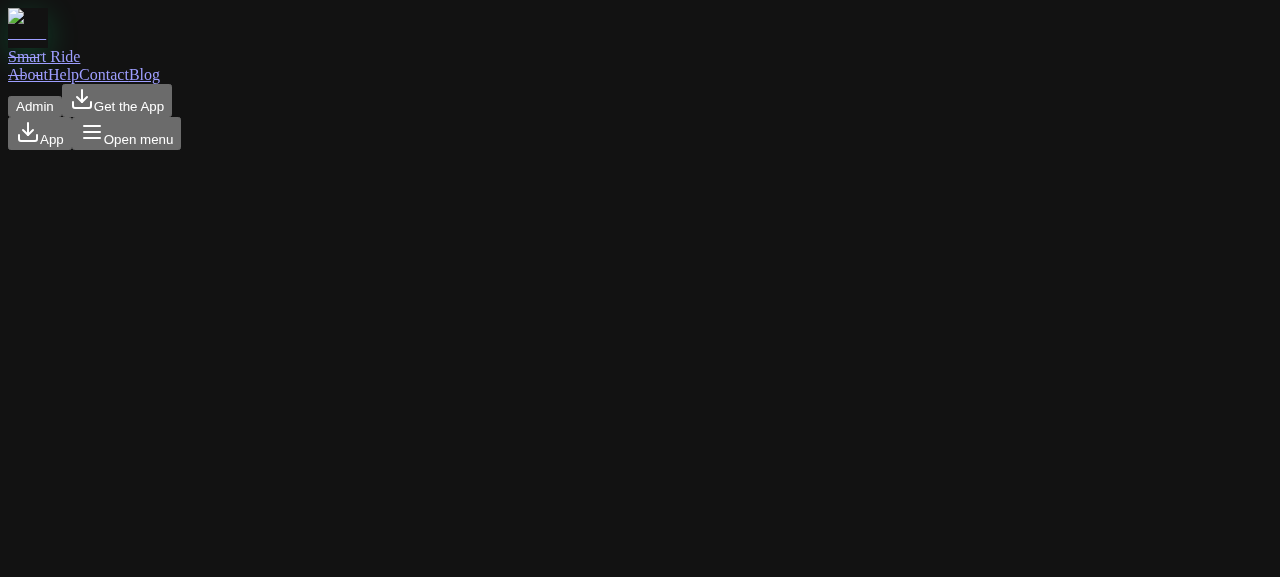
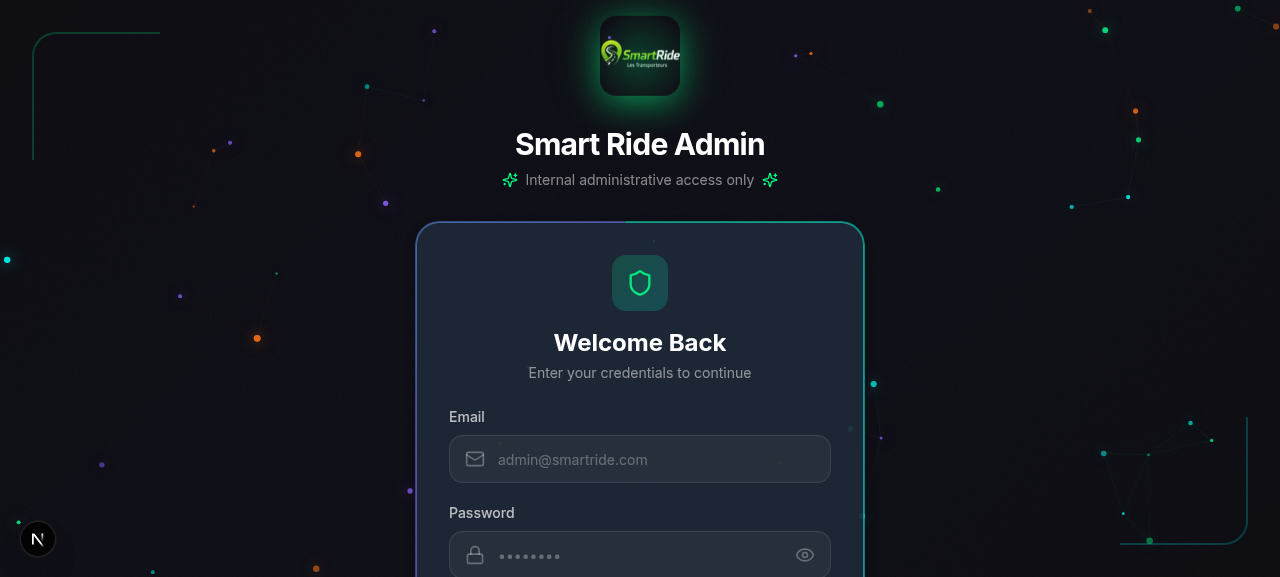
fix(admin): secure admin login at /intellects/login + credential env-var alignment
PROBLEM
- User reported admin dashboard logins did not match the agreed credentials
  (naturalintellectscrop@gmail.com / intellects@nrtcorp) and the admin
  directory still posed a security risk.

ROOT CAUSE
- /api/admin/setup read ADMIN_SETUP_EMAIL / ADMIN_SETUP_PASSWORD env vars,
  but PRODUCTION_SETUP_RUNBOOK.md and ALL prisma seed scripts use
  SEED_ADMIN_EMAIL / SEED_ADMIN_PASSWORD. Setting the agreed creds in Vercel
  under the documented names had NO effect on the setup endpoint, so the
  admin account kept whatever password was last set.
- fix-admin-password.ts hardcoded the stale password 'Admin@123' (security
  risk + wrong password).
- Stale backup src/proxy.ts.bak2 still referenced /admin/login.

FIXES
1. /api/admin/setup now reads SEED_ADMIN_EMAIL / SEED_ADMIN_PASSWORD
   (primary) with ADMIN_SETUP_* as backward-compat fallback. The setup
   endpoint and the seed scripts now agree on env-var names.
2. fix-admin-password.ts rewritten to read creds from env vars only — no
   hardcoded password. Uses correct schema field 'passwordHash' (was
   'password').
3. next.config.ts: permanent 308 redirect from /admin, /admin/login, and
   /admin/:path* -> /intellects/login. Old bookmarks/probes land on the
   obscured login instead of a telling 404. /api/admin/* is intentionally
   NOT redirected (it is the authenticated JSON API, not a login page).
4. Deleted stale src/proxy.ts.bak2.
5. .env.production.example documents SEED_ADMIN_EMAIL, SEED_ADMIN_PASSWORD,
[…]

diff --git a/fix-admin-password.ts b/fix-admin-password.ts
@@ -1,56 +1,88 @@
+/**
+ * One-off utility: reset the SUPER_ADMIN password to the value configured
+ * via SEED_ADMIN_EMAIL / SEED_ADMIN_PASSWORD env vars.
+ *
+ * Usage:
+ *   SEED_ADMIN_EMAIL=naturalintellectscrop@gmail.com \
+ *   SEED_ADMIN_PASSWORD='intellects@nrtcorp' \
+ *   DATABASE_URL='postgresql://...' \
+ *   bun run fix-admin-password.ts
+ *
+ * SECURITY: No credentials are hardcoded in this file. All values must come
+ * from the environment. If the env vars are missing, the script aborts.
+ */
+
 import pkg from '@prisma/client';
 import bcrypt from 'bcryptjs';
 
 const { PrismaClient } = pkg;
 
-// Database is hosted on Supabase (PostgreSQL). Read the connection string from
-// the environment — never hardcode credentials. Set DATABASE_URL in your shell
-// or .env before running this script.
 const prisma = new PrismaClient({
   datasourceUrl: process.env.DATABASE_URL,
 });
 
+const SALT_ROUNDS = 12;
+
 async function main() {
-  const email = 'naturalintellectscrop@gmail.com';
-  const password = 'Admin@123';
-  const hash = await bcrypt.hash(password, 10);
-  
-  console.log('Generated hash:', hash);
-  
+  const email = process.env.SEED_ADMIN_EMAIL;
+  const password = process.env.SEED_ADMIN_PASSWORD;
+
+  if (!email || !password) {
+    console.error(
+      'ABORT: SEED_ADMIN_EMAIL and SEED_ADMIN_PASSWORD env vars must both be set. ' +
+        'No credentials are hardcoded in this script for security reasons.'
+    );
+    process.exit(1);
+  }
+
+  if (password.length < 8) {
+    console.error('ABORT: SEED_ADMIN_PASSWORD must be at least 8 characters.');
+    process.exit(1);
+  }
+
+  const hash = await bcrypt.hash(password, SALT_ROUNDS);
+
   try {
-    const user = await prisma.user.update({
-      where: { email },
-      data: { password: hash }
-    });
-    
-    console.log('✅ Updated user:', user.email);
-    console.log('✅ Password has been reset to: Admin@123');
-  } catch (error: any) {
-    console.error('❌ Error:', error.message);
-    
-    // Try to find the user first
-    const existingUser = await prisma.user.findUnique({
-      where: { email }
-    });
-    
-    if (!existingUser) {
-      console.log('User not found. Creating new admin user...');
-      
-      const newUser = await prisma.user.create({
+    // Try to update an existing admin user first.
+    const existing = await prisma.user.findUnique({ where: { email } });
+
+    if (existing) {
+      const updated = await prisma.user.update({
+        where: { email },
         data: {
-          email,
-          password: hash,
-          name: 'Admin',
+          passwordHash: hash,
           role: 'SUPER_ADMIN',
-          phone: '+256700000000',
-          isVerified: true,
-        }
+          status: 'ACTIVE',
+        },
+        select: { id: true, email: true, name: true, role: true, status: true },
       });
-      console.log('✅ Created admin user:', newUser.email);
+      console.log('OK: password reset for existing admin:', updated.email, '| role:', updated.role);
+      return;
     }
+
+    // Otherwise create the admin user.
+    const created = await prisma.user.create({
+      data: {
+        email,
+        passwordHash: hash,
+        name: 'System Administrator',
+        role: 'SUPER_ADMIN',
+        status: 'ACTIVE',
+        authProvider: 'email',
+        phone: '+256700000000',
+      },
+      select: { id: true, email: true, name: true, role: true, status: true },
+    });
+    console.log('OK: created new SUPER_ADMIN:', created.email);
+  } catch (error: any) {
+    console.error('Error resetting admin password:', error.message);
+    process.exit(1);
   }
 }
 
 main()
-  .catch(console.error)
+  .catch((err) => {
+    console.error(err);
+    process.exit(1);
+  })
   .finally(() => prisma.$disconnect());

diff --git a/src/app/api/admin/setup/route.ts b/src/app/api/admin/setup/route.ts
@@ -36,12 +36,18 @@ export async function GET(request: NextRequest) {
       );
     }
 
-    // SECURITY: All admin credentials must come from environment variables
-    const adminEmail = process.env.ADMIN_SETUP_EMAIL;
-    const adminPassword = process.env.ADMIN_SETUP_PASSWORD;
+    // SECURITY: All admin credentials must come from environment variables.
+    // Primary env var names are SEED_ADMIN_EMAIL / SEED_ADMIN_PASSWORD (consistent
+    // with prisma/seed-production-admin.ts and PRODUCTION_SETUP_RUNBOOK.md).
+    // ADMIN_SETUP_EMAIL / ADMIN_SETUP_PASSWORD are accepted as a backward-compat
+    // fallback so existing Vercel configurations keep working.
+    const adminEmail = process.env.SEED_ADMIN_EMAIL || process.env.ADMIN_SETUP_EMAIL;
+    const adminPassword = process.env.SEED_ADMIN_PASSWORD || process.env.ADMIN_SETUP_PASSWORD;
 
     if (!adminEmail || !adminPassword) {
-      console.error('[Admin Setup] ADMIN_SETUP_EMAIL and/or ADMIN_SETUP_PASSWORD environment variables are not configured');
+      console.error(
+        '[Admin Setup] SEED_ADMIN_EMAIL and SEED_ADMIN_PASSWORD environment variables are not configured'
+      );
       return NextResponse.json(
         { success: false, error: 'Setup is not configured on this server' },
         { status: 500 }

diff --git a/next.config.ts b/next.config.ts
@@ -17,6 +17,20 @@ const nextConfig: NextConfig = {
     'c-6a26afc3-1445a456-c6ab506c40f1',
     '21.0.11.154',
   ],
+  // SECURITY: The admin dashboard used to live at /admin/* and was deliberately
+  // obscured to /intellects/* to reduce drive-by probing. Any stale /admin page
+  // URL (old bookmarks, search-engine caches, attacker reconnaissance) is
+  // permanently redirected to the new obscured login at /intellects/login so
+  // legit users land on the right page and probes don't get a telling 404.
+  // Note: /api/admin/* is intentionally NOT redirected — it is the backend
+  // API surface used by the dashboard, not a discoverable login page.
+  async redirects() {
+    return [
+      { source: '/admin/login', destination: '/intellects/login', permanent: true },
+      { source: '/admin', destination: '/intellects/login', permanent: true },
+      { source: '/admin/:path*', destination: '/intellects/login', permanent: true },
+    ];
+  },
 };
 
 // ============================================

diff --git a/PRODUCTION_SETUP_RUNBOOK.md b/PRODUCTION_SETUP_RUNBOOK.md
@@ -160,6 +160,23 @@ Creating new admin user...
 
 > If you already ran it once, re-running is safe — it will detect the existing
 > admin, update the password, and promote the role to `SUPER_ADMIN`.
+>
+> **Alternative (no local DB access):** Once `SEED_ADMIN_EMAIL`,
+> `SEED_ADMIN_PASSWORD`, and `ADMIN_SETUP_KEY` are set as Vercel env vars, you
+> can seed/update the admin from the deployed site directly:
+> ```bash
+> curl "https://smartrideug.vercel.app/api/admin/setup?key=$ADMIN_SETUP_KEY"
+> ```
+> This runs the SAME logic as the seed script against the production database.
+
+**Admin login URL (production):** `https://smartrideug.vercel.app/intellects/login`
+
+> SECURITY: The admin dashboard route was deliberately obscured from `/admin`
+> to `/intellects` to reduce drive-by probing. Any stale `/admin`, `/admin/login`,
+> or `/admin/<anything>` page URL is permanently (301) redirected to
+> `/intellects/login`. The backend API surface at `/api/admin/*` is NOT
+> redirected — it is the authenticated JSON API used by the dashboard, not a
+> discoverable login page.
 
 ---
 
@@ -497,6 +514,11 @@ Based on the current architecture (Vercel Hobby + Supabase free tier):
 - [ ] APK builds, installs, launches, shows login screen
 - [ ] Google Sign-In button works on the APK
 - [ ] Map renders (Mapbox token valid)
-- [ ] Can log in as admin at `https://smartrideug.vercel.app/admin`
+- [ ] Can log in as admin at `https://smartrideug.vercel.app/intellects/login`
+      (Credentials: `naturalintellectscorp@gmail.com` / `intellects@nrtcorp`)
+- [ ] Old `/admin` and `/admin/login` URLs 301-redirect to `/intellects/login`
+- [ ] `/api/admin/setup?key=...` reports success when invoked with the
+      `ADMIN_SETUP_KEY` env var (alternative to running the seed script)
+- [ ] `/admin` page route is NOT discoverable (returns 301 → `/intellects/login`)
 
 When all boxes are checked, you're ready to build the final AAB for Play Internal Testing.
